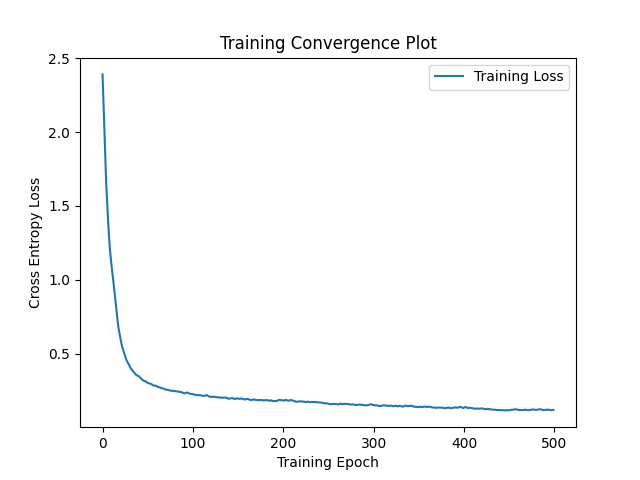
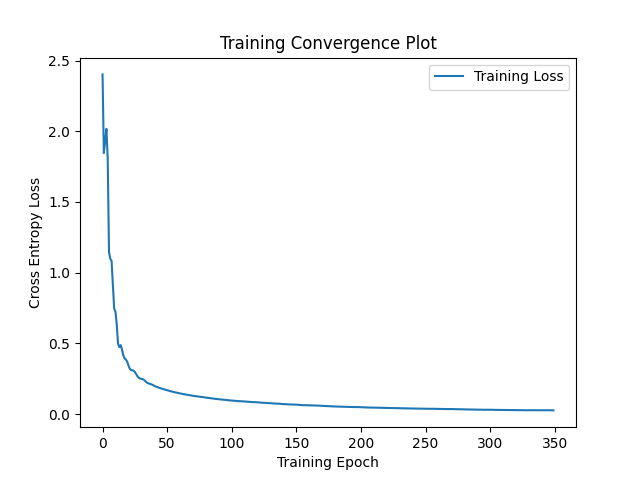
Final final model. 97% accuracy and 0.026 loss

diff --git a/code/stage_2_code/Method_MLP.py b/code/stage_2_code/Method_MLP.py
@@ -18,7 +18,7 @@ import matplotlib.pyplot as plt
 class Method_MLP(method, nn.Module):
     data = None
     # it defines the max rounds to train the model
-    max_epoch = 500
+    max_epoch = 350
     # it defines the learning rate for gradient descent based optimizer for model learning
     learning_rate = 1e-2
 
@@ -35,10 +35,10 @@ class Method_MLP(method, nn.Module):
         # 3. different number of intermediate neurons in each layer
 
         # check here for nn.Linear doc: https://pytorch.org/docs/stable/generated/torch.nn.Linear.html
-        self.fc_layer_1 = nn.Linear(784, 50)
+        self.fc_layer_1 = nn.Linear(784, 522)
         # check here for nn.ReLU doc: https://pytorch.org/docs/stable/generated/torch.nn.ReLU.html
         self.activation_func_1 = nn.Tanh()
-        self.fc_layer_2 = nn.Linear(50, 10)
+        self.fc_layer_2 = nn.Linear(522, 10)
 
         # check here for nn.Softmax doc: https://pytorch.org/docs/stable/generated/torch.nn.Softmax.html
         # self.activation_func_2 = nn.Softmax(dim=1)
